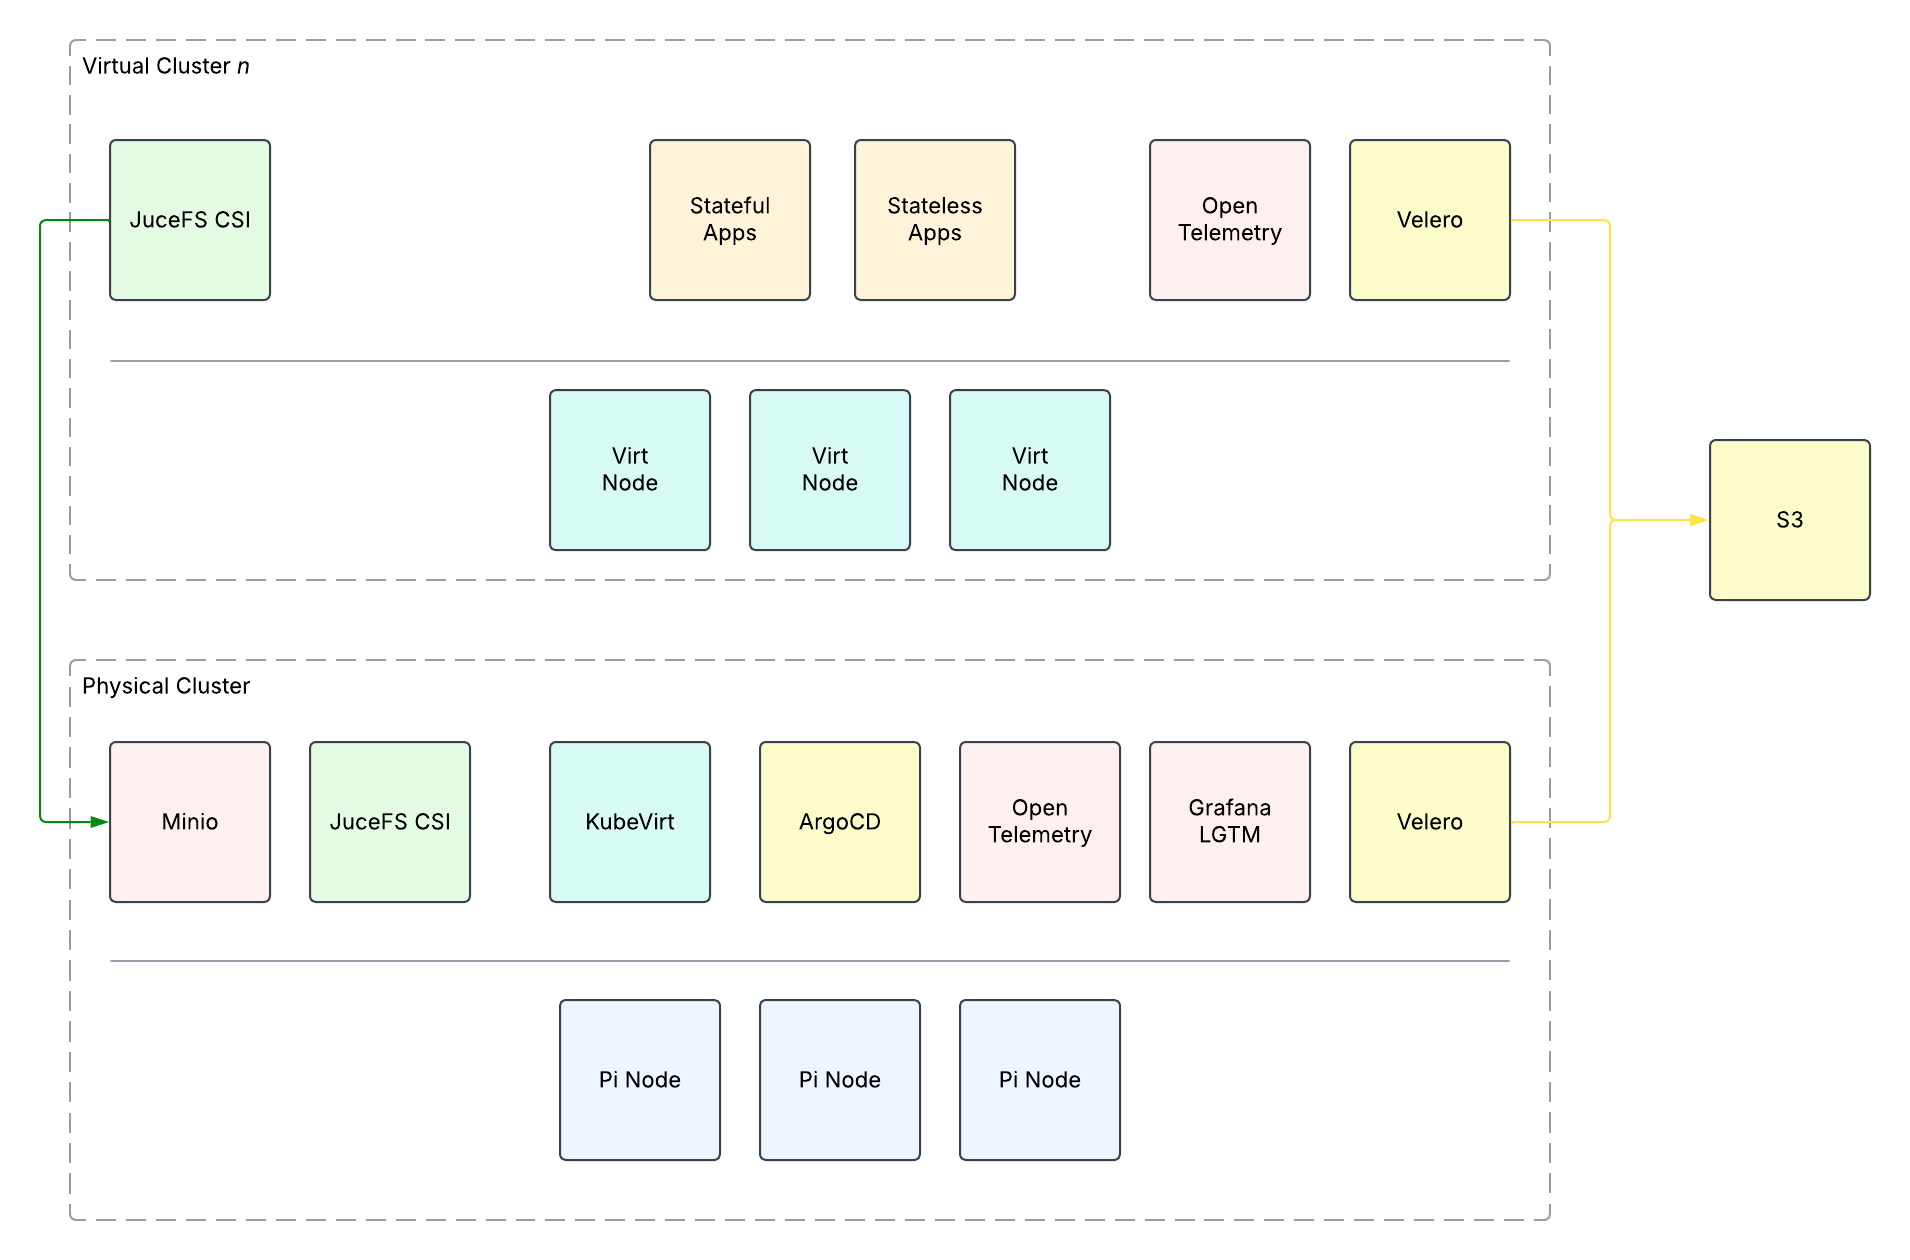
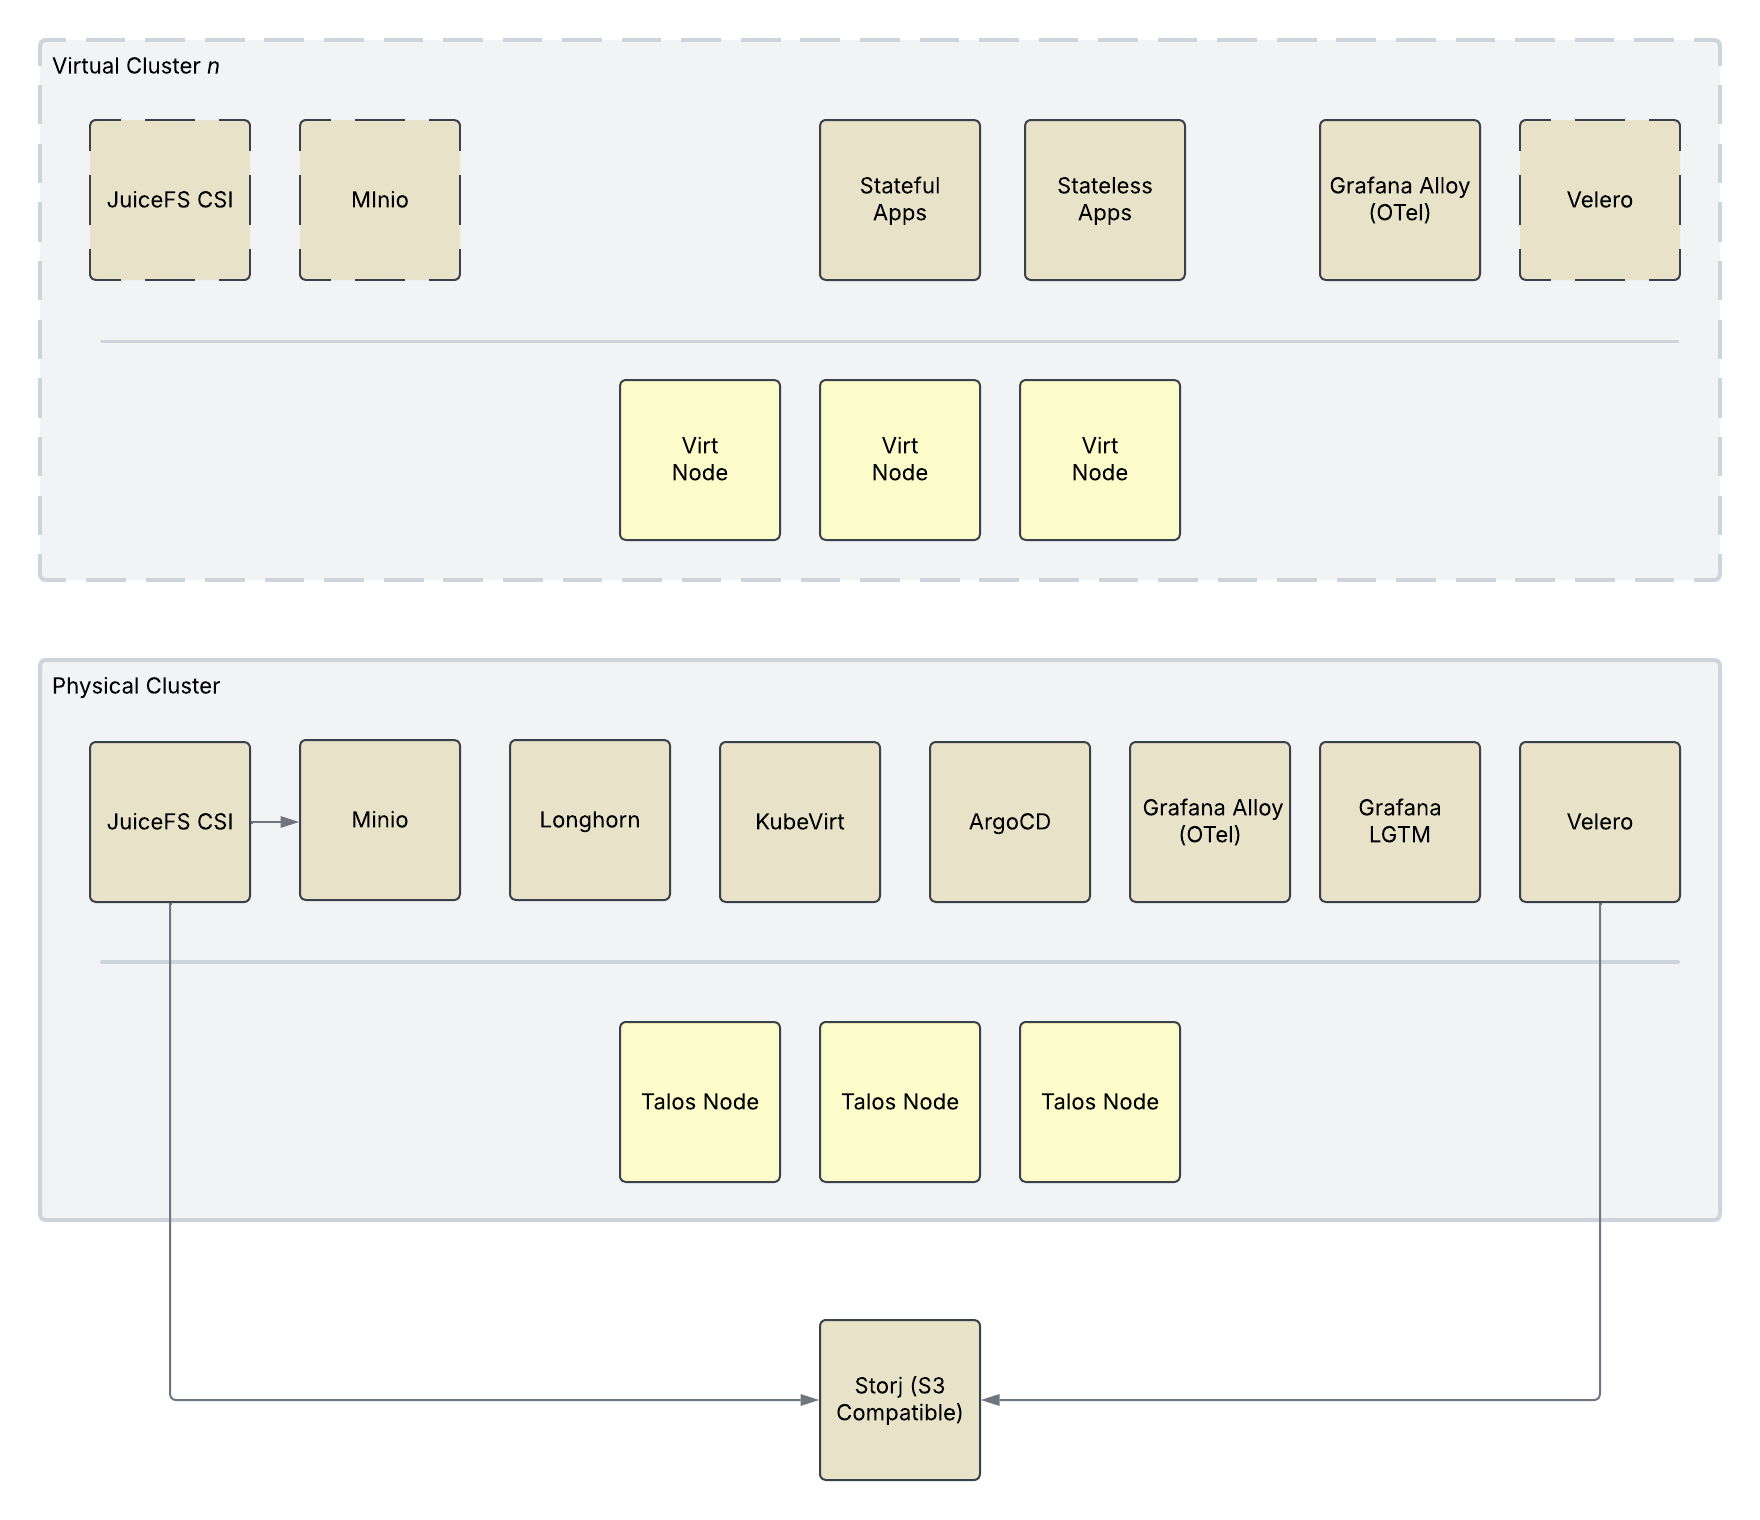
Update homelab content

diff --git a/content/blog/planning-a-homelab.md b/content/blog/planning-a-homelab.md
@@ -1,7 +1,7 @@
 ---
 title: Planning a Homelab
 description: Planning a homelab for some new home projects and to explore new technologies.
-tags: homelab, kubernetes, talos, kubevirt, cilium, tailscale, cloudflare, minio, jucefs, opentelemetry, grafana, velero, clusterapi, argocd
+tags: homelab, kubernetes, k3s, kubevirt, cilium, tailscale, cloudflare, minio, jucefs, opentelemetry, grafana, velero, clusterapi, argocd
 ---
 
 ## Preamble
@@ -22,14 +22,14 @@ These choices are largely based on what I know already but with some new pieces 
 whole point of the experimental clusters is to try out new things and develop it over time. This is just the starting
 point, based on my initial research of what makes sense for this particular setup.
 
-* **Operating System** - Talos
+* **Operating System** - Talos Linux
 * **Kubernetes** - Talos
 * **Virtualisation** - Qemu/Libvirt and KubeVirt
-* **Networking** - Cilium CNI, CoreDNS, Tailscale, CloudFlare
-* **Storage** - Minio/JuceFS
-* **Monitoring** - OpenTelemetry / Grafana LGTM stack
+* **Networking** - Flannel, CoreDNS, Tailscale, Cloudflare
+* **Storage** - Longhorn, Storj, Minio, JuiceFS
+* **Monitoring** - OpenTelemetry, Grafana LGTM stack
 * **Backups** - Velero
-* **Management** - ClusterAPI / ArgoCD
+* **Management** - ArgoCD / Cluster API
 
 ![Homelab architecture](homelab-architecture.png)
 
@@ -52,7 +52,7 @@ For this hardware I have the following requirements:
 * **Scalable** - If I need more compute power I should be able to easily add more.
 * **Virtualisation** - I want to be able to run multiple VMs on the hardware.
 
-Something like a Raspberry Pi would be ideal, and I'll need a few of them to support the requirements of services running at the infrastructure layer. I don't plan to use this system as a NAS device, so the storage requirements are minimal, but a uniform-sized SSD attached to each node will be ideal.
+I've aquired a trio of HP EliteDesk 800 G4s with 16GB RAM and 256GB, which stack quite neatly on a desk. I can expand them with more storage and memory, or just buy some more to grow the cluster size.
 
 ## Clusters
 
@@ -65,25 +65,35 @@ Lastly, I need to be able to create any number of experimental clusters for vari
 Having the abiliy to create multiple clusters allows me to:
 * optimise the use of available hardware,
 * create development versions of the production cluster to test changes before deploying them,
-* experiment with clusters in a way that might impact services running on them, without affecting the services I need.
+* experiment with clusters in a way that might impact services running on them, without affecting the dependency services and infrastructure.
 
 ## Networking
 
 The physical network will be a simple Gigabit switch under my desk, not quite the network fabric available to me in the cloud, but it'll do! I don't currently plan to do any multi-homing or VLANs to separate the homelab from the rest of  the house. The Kubernetes pods and services will be isolated within the cluster network, and the only way to access them from outside a cluster is to deliberately expose them.
 
-Normally I would use the cloud provider's load balancer integration with a few annotations on the ingress controller's  service. I would like to load balance traffic evenly across nodes in a cluster. Unfortunatly I think this is going to be quite difficult to acheieve in a traditional way without some significant changes to my home network to support BGP. Instead I can use the [Tailscale Kubernetes operator](https://tailscale.com/kb/1236/kubernetes-operator) which has  various options to expose services to my existing [Tailscale](https://tailscale.com/) network.
+Normally I would use the cloud provider's load balancer integration with a few annotations on the ingress controller's  service. I would like to load balance traffic evenly across nodes in a cluster. Unfortunatly I think this is going to be quite difficult to acheieve in a traditional way without some significant changes to my home network to support BGP. Instead I can use the [Tailscale Kubernetes operator](https://tailscale.com/kb/1236/kubernetes-operator) which has  various options to expose services to my existing [Tailscale](https://tailscale.com/) network (tailnet).
 
 ## Storage
 
-When working with cloud providers I'm used to storage backed by the provider, made available to services via CSI and  PersistentVolumeClaims. Since I'm providing the infrastructure myself I will need services at the infrastructure layer to fill this gap.
+When working with cloud providers I'm used to storage backed by the provider, made available to services via CSI and  PersistentVolumeClaims. Typically I call upon a mix of traditional volumes, shared filesystems and object storage. Since I'm providing the infrastructure myself I will need services at the infrastructure layer to fill this gap.
 
-I want to pool the available storage on the hardware, with replication enabled so that it is resilient to failure (or me breaking sh*t). A lot of the services I've deployed also make use of object storage too. I did look into Rook/Ceph but the architecture is quite complex and I would have to wrangle with resource tuning quite a bit to get it working in a minimal environment. Instead I'm giving a nod to JuceFS, backed by MiniIO. This gives me object storage for the truly cloud-native service, and PersistentVolumes for the rest. Since JuceFS supports read/write from mutliple pods I can also use it for shared storage between pods that need it.
+### Persistent Volumes
+
+I want to pool the available storage on the hardware, with replication enabled so that it is resilient to failure (or me breaking sh*t). A lot of the services I've deployed also make use of object storage too. I did look into Rook/Ceph but the architecture is quite complex and I would have to wrangle with resource tuning quite a bit to get it working in a minimal environment. Based on a small amount of experimentation, I've settled on [Longhorn](https://longhorn.io). This will provide the local persistent volume capacity I need, replicated across all 3 nodes for redundancy.
+
+### Object Storage
+
+For any object storage requirements, I plan to begin with remote storage, provided by [Storj](https://storj.io). I have a stable 1gb internet connection, so I'm not initially concerned about performance and reliability. If any more performance-sensitive requirements emerge that require object storage, I can deploy [minio](https://min.io/) backed by some persistent volumes.
+
+### Shared storage
+
+For any shared storage requirements, or for larger file storage managed by applications that do not natively support objects storage, I intend to explore the use of [JuiceFS](https://juicefs.com). Using the JuiceFS CSI driver allows me to provide Posix-compliant persistent storage, backed by object storage. Depending on the performance sensitivity of the application the object store can either be Storj (remote) or Minio (local).
 
 ## Backups
 
-In cluster I use Velero to back up resources and persistent volumes. Resource backups are not technically required since the GitOps approach defines all configuration needed to deploy applications repeatably. I keep the resources as anyway because it can simplify restores and is just an extra layer of protection.
+I've used Velero to back up resources and persistent volumes for a long time so I'm familiar with its operations. Resource backups are not typically required since the GitOps approach defines all configuration needed to deploy applications repeatably. I keep the resource backups anyway because it can simplify restores and is just an extra layer of protection, in case of a Git branch protection SNAFU.
 
-The persistent volume backups are great for point-in-time snapshot restores, but in this setup they are not adeqate because the storage and compute are all integrated. The storage at the infrastructure layer needs its own backup,  somewhere off-site. For that I will use a cloud provider's object storage service.
+Since Storj is a globally distributed storage system it is immune from region outages that might make a single backup location risky. It also provides a ready-made option for off-site backups. Using compliance mode allows me to protect against data accidental or malicious deletion.
 
 {{< callout type="info" >}}
 In a future post I plan to cover the development tooling that will form the GitOps process for managing this setup. All configuration will be avalable in a public repository, with the exception of any secrets or personally identifiable information.
@@ -91,8 +101,7 @@ In a future post I plan to cover the development tooling that will form the GitO
 
 ## Management
 
-As far as possible, I want everything to be managed in code. This gives me a mostly self-documenting environment that is repeatable, testable and fully automated. I'll add these capabilities as I go along, but to start with I will need ArgoCD for the GitOps approach to deployment.
+As far as possible, I want everything to be managed in code. This gives me a mostly self-documenting environment that with reusable, testable components. The plan is to start very basic, pulling in Helm charts and configuring them explicity. Over time this will mature into something more dynamic. Normally I will be working with a well-established pipeline that has picked up clutter along the way. This is a greenfield deployment that gives me the opportunity to use my experience to create a modern and practical deployment environment.
 
-I've not used ClusterAPI before so would like to give it a try. It may be possible for me to avoid terraform completely in this environment. Any infrastructure I need for clusters can be defined via ClusterAPI, and if I need to create other infrastructure for application dependencies I can use Crossplane or a custom operator.
-
+I've not used ClusterAPI before so its on my list for technologies to familiarise myself with. This will come in handy when describing the virtual clusters as code.
 

diff --git a/content/blog/homelab-proof-of-concept.md b/content/blog/homelab-proof-of-concept.md
@@ -3,36 +3,24 @@ title: Home-lab proof of concept
 description: Exploring the tools for my home lab to get familiar with them and make sure I'm happy with the plan.
 ---
 
-In a [previous post](../planning-a-homelab) I described the design of my home lab that I'm planning to build. Today, I
-will be exploring the tools a little more to get familiar with them and make sure I'm happy with the plan. As this is
-still exploratory I'll be working imperatively with the `clusterapi` and `talosctl` tools, rather than starting to
-work on declarative config.
+In a [previous post](../planning-a-homelab) I described the design of my home lab that I'm planning to build. Today, I will be exploring the tools a little more to get familiar with them and make sure I'm happy with the plan. As this is still exploratory I'll be working imperatively with the `clusterapi` and `talosctl` tools, rather than starting to work on declarative config.
 
 {{< callout emoji="💭" >}}
-I often find it can be helpful to get to know how something works using imperative tools, prior to diving straight in 
-with automation and declarative setup. Unclear documentation can often be overcome this way.
+I often find it can be helpful to get to know how something works using imperative tools, prior to diving straight in with automation and declarative setup. Unclear documentation can often be overcome this way.
 {{< /callout >}}
 
-Being able to spin this up on my workstation is useful not only for testing out commands but also as a development
-environment for when I want to make changes to the 'infrastructure' layer. Once the lab is up and running I might be
-able to test the infrastructure layer on a nested cluster, but it's getting kinda like Inception at that point and I can
-run into issues getting nested virtualisation working or it performing badly. For now, there is a variation on the
-desigen that allows me to work in box.
+Being able to spin this up on my workstation is useful not only for testing out commands but also as a development environment for when I want to make changes to the 'infrastructure' layer. Once the lab is up and running I might be able to test the infrastructure layer on a nested cluster, but I may run into issues getting nested virtualisation working or it performing badly. For now, there is a variation on the design that allows me to work in box.
 
 ## The local architecture
 
-It's not that much different. There's still an infrastructure layer that runs on talos, with KubeVirt and some storage
-services. However instead of the infrastructure cluster running on three separate nodes, it will be run on 3 containers
-on my workstation.
+It's not that much different. There's still an infrastructure layer that runs on talos, with KubeVirt and some storage services. However instead of the infrastructure cluster running on three separate nodes, it will be run on 3 containers on my workstation.
 
 ## The infrastructure cluster
 
-The first thing we want to do is get the talosctl binary from [talos.dev](talos.dev). I'm going to assume the reader has
-installed Docker.
+The first thing we want to do is get the talosctl binary from [talos.dev](talos.dev). I'm going to assume the reader has installed Docker.
 
 {{<callout type="info" >}}
-I actually had some trouble getting set up the first time. I've not covered that here for brevity. You can read more
-about my case of missing br_netfilter kernel module [here](../investigating-talosctl-docker-create-failure).
+I actually had some trouble getting set up the first time. I've not covered that here for brevity. You can read more about my case of missing `br_netfilter` kernel module [here](../investigating-talosctl-docker-create-failure).
 {{</callout>}}
 
 ```shell
@@ -66,9 +54,7 @@ talos-default-controlplane-1   Ready    control-plane   13m   v1.32.0
 talos-default-worker-1         Ready    <none>          13m   v1.32.0
 ```
 
-This doesn't look much like the 3 node cluster though. I need to adjust my cluster create command to specify the number
-of control-plane and worker nodes. In this cluster I won't be having separate control plane and worker nodes. Though its
-a good practice to do so, I won't have the resources to run 3 control-planes and separate worker nodes.
+This doesn't look much like the 3 node cluster though. I need to adjust my cluster create command to specify the number of control-plane and worker nodes. In this cluster I won't be having separate control plane and worker nodes. Though its a good practice to do so, I won't have the resources to run 3 control-planes and separate worker nodes.
 
 ```shell
 talosctl cluster destroy
@@ -114,9 +100,7 @@ For some reason the nodes were not set on the config so I had to manually add th
 talosctl config nodes 10.5.0.2 10.5.0.3 10.5.0.4
 ```
 
-To remove the taint I need to patch the machine config. Confusingly, there are 2 patch commands for machineconfig:
-`talosctl machineconfig patch` and `talosctl patch machineconfig`. I believe the former is for patching a file generated
-using the `talsoctl machineconfig gen` command, and the latter is for patching the machineconfig directly on a cluster?
+To remove the taint I need to patch the machine config. Confusingly, there are 2 patch commands for machineconfig: `talosctl machineconfig patch` and `talosctl patch machineconfig`. I believe the former is for patching a file generated using the `talsoctl machineconfig gen` command, and the latter is for patching the machineconfig directly on a cluster?
 
 ```shell
 talosctl patch machineconfig --patch '[{"op": "add", "path": "/cluster/allowSchedulingOnControlPlanes", "value": true}]'
@@ -149,25 +133,7 @@ NAME      READY   STATUS    RESTARTS   AGE
 busybox   1/1     Running   0          34s
 ```
 
-Awesome! I have a cluster running on my workstation. I can now start to experiment with services at the infrastructure
-layer.
-
-## Rook/Ceph
-
-Using the TL;DR install for the [Rook/Ceph operator](https://rook.io/docs/rook/v1.9/Getting-Started/quickstart/#tldr)
-didn't quite work for me. Aside from having to clear some storage on my workstation, I had to label the namespace to
-allow provileged containers to run.
-
-```shell
-git clone --single-branch --branch v1.9.13 https://github.com/rook/rook.git
-cd rook/deploy/examples
-kubectl create -f crds.yaml -f common.yaml -f operator.yaml
-kubectl label namespace rook-ceph pod-security.kubernetes.io/enforce=privileged
-kubectl create -f cluster.yaml
-```
-
-This resulted in a cluster
-
+Awesome! I have a cluster running on my workstation. I can now start to experiment with services at the infrastructure layer. The first thing I need is some storage.
 
 ## KubeVirt
 

diff --git a/content/blog/assessing-storage-options-for-homelab-cluster.md b/content/blog/assessing-storage-options-for-homelab-cluster.md
@@ -1,0 +1,11 @@
+Within the specific context of deploying on a cluster at home and the following ideals/requirements:
+
+* Simple deployment - not too many components to deploy/manage
+* Lightweight - does not consume a lot of resources
+* Low configuration complexity - not having to many underlying pre-requisites (eg. extra kernel modules needed)
+
+OpenEBS Mayastor - has many components (etcd/NATS,etc.). Also requires to take full control of a disk/partition but Talos does not support this (User volumes can only be formatted XFS or EXT4).
+Longhorn - Requires iSCSI extensions for Talos and uses NFS server for RWX
+Rook/Ceph - Resource hungry unless tuned below recommendations
+
+Useful reference: https://kubedo.com/kubernetes-storage-comparison/

diff --git a/content/blog/designing-external-secrets-for-a-homelab-environment.md b/content/blog/designing-external-secrets-for-a-homelab-environment.md
@@ -1,0 +1,6 @@
+# Considerations
+
+- Needs to keep secrets secure, including away from the repository.
+- Use of ESO is preferred as it is the standard approach and allows to switch out secret providers at a later date.
+- GitHub Actions secrets would be ideal because the secrets can be kept with the repository, however this mechanism is write-only so can only be used to push secrets to GitHub.
+- Use of in-cluster storage not an option due 
